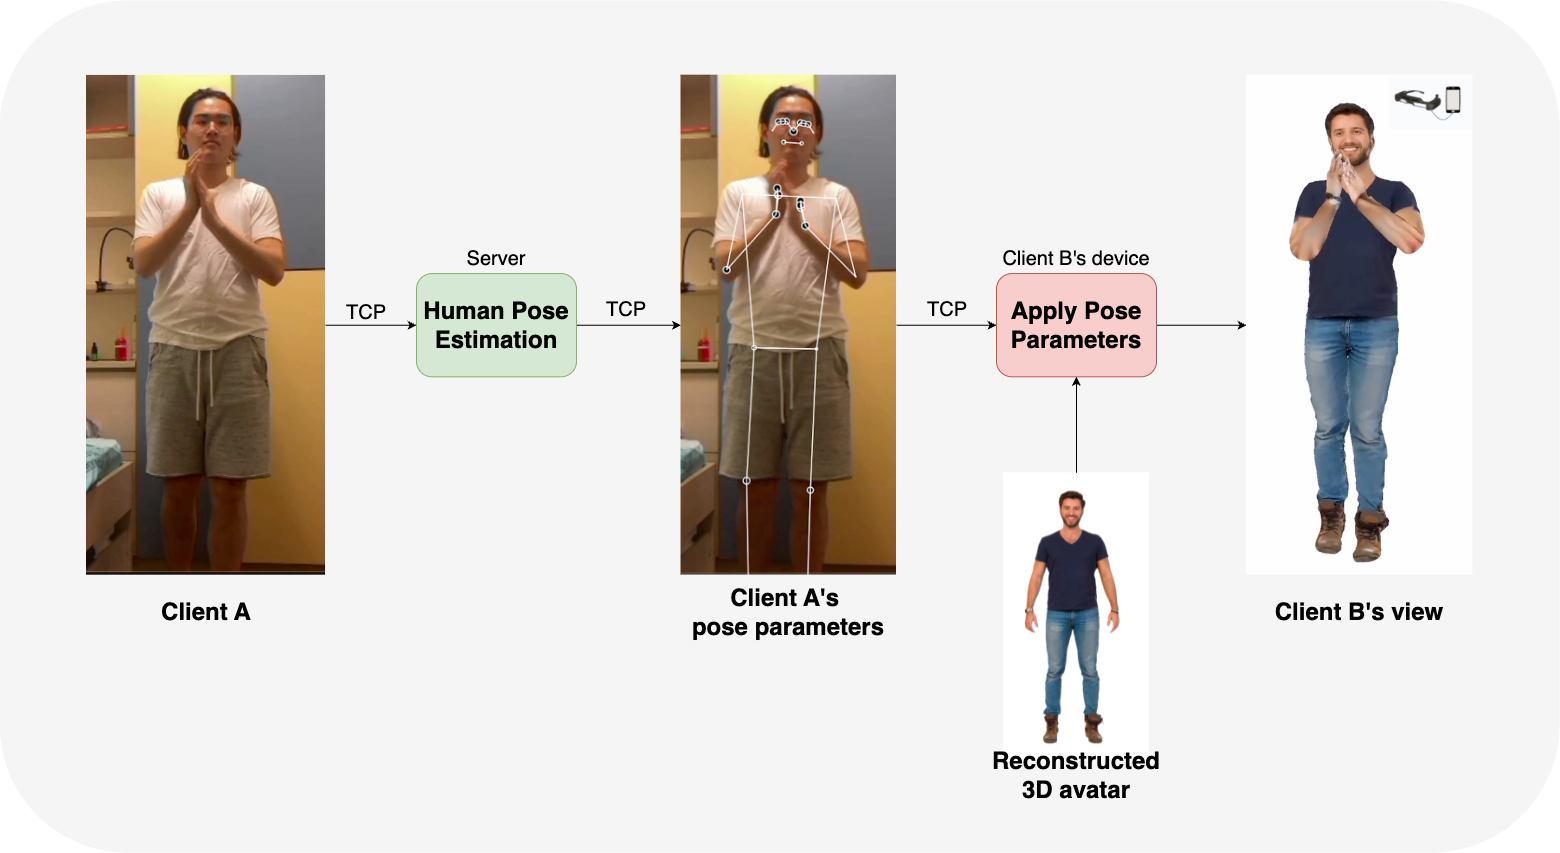
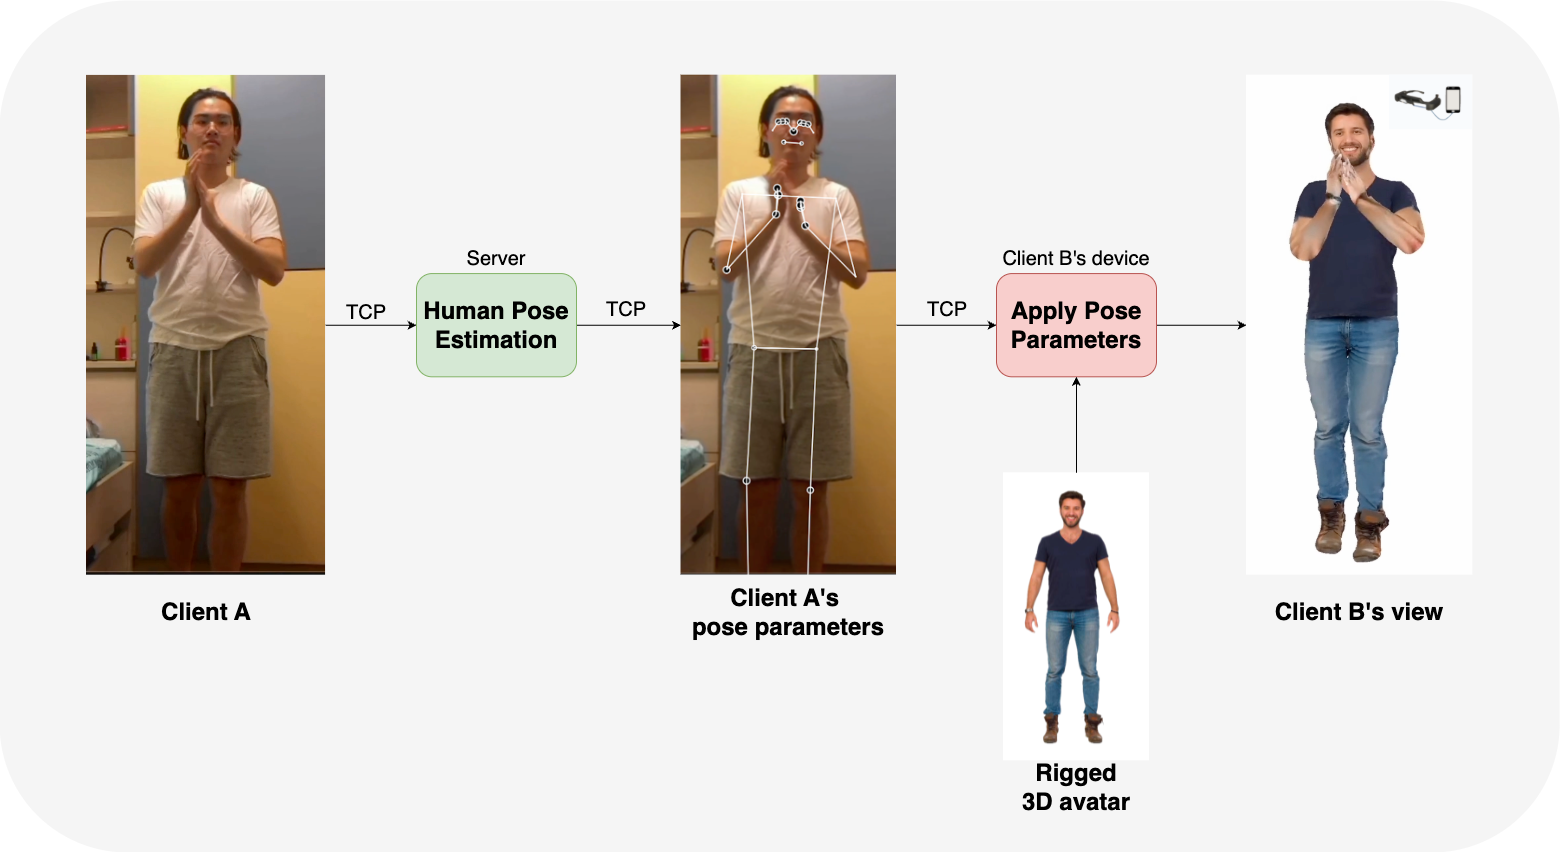
Updates

diff --git a/index.html b/index.html
@@ -4,7 +4,7 @@
     <meta charset="UTF-8" />
     <link rel="icon" type="image/svg+xml" href="/assets/icon/favicon.png" />
     <meta name="viewport" content="width=device-width, initial-scale=1.0" />
-    <meta name="version" content="202505131218" />
+    <meta name="version" content="202505131349" />
     <title>Howard</title>
     <script type="module" crossorigin src="/assets/index-BDDZmZfY.js"></script>
     <link rel="stylesheet" crossorigin href="/assets/index-BYQRKRuh.css">
